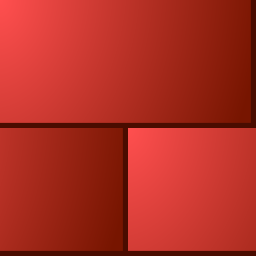
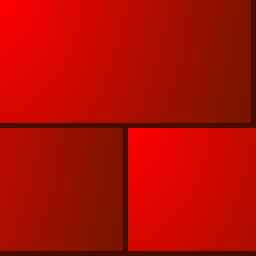
Added scale option
Version raised to 0.3.
Added new graphics.

diff --git a/src/state/OptionsState.java b/src/state/OptionsState.java
@@ -1,5 +1,6 @@
 package state;
 
+import java.awt.Dimension;
 import java.awt.DisplayMode;
 import java.awt.GraphicsDevice;
 import java.awt.GraphicsEnvironment;
@@ -15,12 +16,14 @@ import org.newdawn.slick.Color;
 import org.newdawn.slick.Font;
 import org.newdawn.slick.GameContainer;
 import org.newdawn.slick.Graphics;
+import org.newdawn.slick.Image;
 import org.newdawn.slick.Input;
 import org.newdawn.slick.SlickException;
 import org.newdawn.slick.font.effects.ColorEffect;
 import org.newdawn.slick.state.BasicGameState;
 import org.newdawn.slick.state.StateBasedGame;
 
+import other.LevelController;
 import other.Translator;
 import app.Configuration;
 import app.Game;
@@ -30,16 +33,18 @@ import factory.FontFactory;
 public class OptionsState extends BasicGameState {
 
     private boolean isMouseOverReturn, isMouseOverSave, isMouseOverResolution,
-            isMouseOverFullscreen, isMouseOverLanguage, isMouseOverAutoscale, isFullscreen,
-            isAutoscale;
-    private int stateId, width, height, languageIndex, modeIndex;
-    private Font ubuntuMedium, ubuntuLarge;
+            isMouseOverFullscreen, isMouseOverLanguage, isMouseOverAutoscale, isMouseOverScale,
+            isFullscreen, isAutoscale, isHolding;
+    private int stateId, width, height, languageIndex, modeIndex, scale, holdCounter;
+    private Font ubuntuSmall, ubuntuMedium, ubuntuLarge;
     private Rectangle saveRectangle, returnRectangle, resolutionRectangle, fullscreenRectangle,
-            languageRectangle, autoscaleRectangle;
+            languageRectangle, autoscaleRectangle, scaleRectangle;
     private DisplayMode displayModes[];
+    private Dimension size;
+    private Image wall, wallPreview;
     private Input input;
     private Point mouse;
-    private String resolutionText, languages[], yes, no, save;
+    private String resolutionText, languages[], yes, no, save, scaleText, sizeText;
     private Translator translator;
     private Configuration configuration;
 
@@ -55,12 +60,16 @@ public class OptionsState extends BasicGameState {
         configuration = Configuration.getInstance();
         width = container.getWidth();
         height = container.getHeight();
+        scale = (int) (Float.parseFloat(configuration.get("scale")) * 100);
 
         ColorEffect whiteEffect = effects.getColorEffect(java.awt.Color.WHITE);
+        ubuntuSmall = fonts.getFont("ubuntu", width / 40, whiteEffect);
         ubuntuMedium = fonts.getFont("ubuntu", width / 20, whiteEffect);
         ubuntuLarge = fonts.getFont("ubuntu", width / 16, whiteEffect);
 
         translate();
+        wall = new Image(Game.CONTENT_PATH + "graphics/newWall.png");
+        wallPreview = wall.getScaledCopy(scale / 512f);
 
         ArrayList<DisplayMode> modes = new ArrayList<DisplayMode>();
         GraphicsEnvironment environment = GraphicsEnvironment.getLocalGraphicsEnvironment();
@@ -122,6 +131,9 @@ public class OptionsState extends BasicGameState {
         autoscaleRectangle = new Rectangle();
         setAutoscaleRectangle();
 
+        scaleRectangle = new Rectangle();
+        setScaleRectangle();
+
         saveRectangle = new Rectangle();
         saveRectangle.width = ubuntuMedium.getWidth(save);
         saveRectangle.height = ubuntuMedium.getHeight(save);
@@ -153,6 +165,8 @@ public class OptionsState extends BasicGameState {
                 height * 4 / 10);
         drawString(g, ubuntuMedium, translator.translate("Autoscale") + ":", width / 6 * 2,
                 height * 5 / 10);
+        drawString(g, ubuntuMedium, translator.translate("Scale") + ":", width / 6 * 2,
+                height * 6 / 10);
 
         g.setColor((isMouseOverResolution) ? Color.blue : Color.red);
         drawString(g, ubuntuMedium, resolutionText, width / 6 * 4, height * 2 / 10);
@@ -162,6 +176,8 @@ public class OptionsState extends BasicGameState {
         drawString(g, ubuntuMedium, languages[languageIndex], width / 6 * 4, height * 4 / 10);
         g.setColor((isMouseOverAutoscale) ? Color.blue : Color.red);
         drawString(g, ubuntuMedium, isAutoscale ? yes : no, width / 6 * 4, height * 5 / 10);
+        g.setColor((isAutoscale) ? Color.darkGray : (isMouseOverScale) ? Color.blue : Color.red);
+        drawString(g, ubuntuMedium, scaleText, width / 6 * 4, height * 6 / 10);
 
         g.setColor((isMouseOverSave) ? Color.red : Color.white);
         drawString(g, ubuntuMedium, translator.translate("save"), width / 3,
@@ -169,6 +185,11 @@ public class OptionsState extends BasicGameState {
         g.setColor((isMouseOverReturn) ? Color.red : Color.white);
         drawString(g, ubuntuMedium, translator.translate("return"), (int) (width / 1.5),
                 (height - returnRectangle.height * 3 / 4));
+        g.setFont(ubuntuSmall);
+        g.setColor((size.width > 7 && size.height > 7 && size.width <= 100 && size.height <= 100) ? Color.white
+                : Color.blue);
+        drawString(g, ubuntuSmall, sizeText, width / 6 * 4, height * 8 / 12);
+        g.drawImage(wallPreview, width * 5 / 6, height * 7 / 10);
     }
 
     @Override
@@ -181,8 +202,10 @@ public class OptionsState extends BasicGameState {
         isMouseOverFullscreen = fullscreenRectangle.contains(mouse);
         isMouseOverLanguage = languageRectangle.contains(mouse);
         isMouseOverAutoscale = autoscaleRectangle.contains(mouse);
+        isMouseOverScale = scaleRectangle.contains(mouse) && !isAutoscale;
         isMouseOverSave = saveRectangle.contains(mouse);
         isMouseOverReturn = returnRectangle.contains(mouse);
+        isHolding = false;
 
         if (input.isKeyPressed(Input.KEY_ENTER)) {
             saveOptions(container, game);
@@ -191,7 +214,7 @@ public class OptionsState extends BasicGameState {
         if (input.isKeyPressed(Input.KEY_ESCAPE)) {
             game.enterState(Game.MENU_STATE);
         }
-        if (input.isMousePressed(0)) {
+        if (input.isMousePressed(Input.MOUSE_LEFT_BUTTON)) {
             if (isMouseOverResolution) {
                 modeIndex++;
                 if (modeIndex == displayModes.length) {
@@ -222,7 +245,7 @@ public class OptionsState extends BasicGameState {
                 game.enterState(Game.MENU_STATE);
             }
         }
-        if (input.isMousePressed(1)) {
+        if (input.isMousePressed(Input.MOUSE_RIGHT_BUTTON)) {
             if (isMouseOverResolution) {
                 modeIndex--;
                 if (modeIndex == -1) {
@@ -238,6 +261,49 @@ public class OptionsState extends BasicGameState {
                 setLanguageRectangle();
             }
         }
+        if (input.isMouseButtonDown(Input.MOUSE_LEFT_BUTTON)) {
+            if (isMouseOverScale && scale < 512 && size.width > 7 && size.height > 7) {
+                isHolding = true;
+                if (holdCounter == 0) {
+                    scale++;
+                } else if (holdCounter <= 60) {
+                    if (holdCounter % 6 == 0) {
+                        scale++;
+                    }
+                } else if (holdCounter <= 120) {
+                    if (holdCounter % 2 == 0) {
+                        scale++;
+                    }
+                } else {
+                    scale++;
+                }
+                holdCounter++;
+                setScaleRectangle();
+            }
+        }
+        if (input.isMouseButtonDown(Input.MOUSE_RIGHT_BUTTON)) {
+            if (isMouseOverScale && scale > 25 && size.width <= 100 && size.height <= 100) {
+                isHolding = true;
+                if (holdCounter == 0) {
+                    scale--;
+                } else if (holdCounter <= 60) {
+                    if (holdCounter % 6 == 0) {
+                        scale--;
+                    }
+                } else if (holdCounter <= 120) {
+                    if (holdCounter % 2 == 0) {
+                        scale--;
+                    }
+                } else {
+                    scale--;
+                }
+                holdCounter++;
+                setScaleRectangle();
+            }
+        }
+        if (!isHolding) {
+            holdCounter = 0;
+        }
     }
 
     @Override
@@ -252,6 +318,7 @@ public class OptionsState extends BasicGameState {
             configuration.set("language", languages[languageIndex]);
             configuration.set("fullscreen", String.valueOf(isFullscreen));
             configuration.set("autoscale", String.valueOf(isAutoscale));
+            configuration.set("scale", String.valueOf(scale / 100f));
             configuration.saveChanges();
 
             ((AppGameContainer) container).setDisplayMode(displayModes[modeIndex].getWidth(),
@@ -295,6 +362,14 @@ public class OptionsState extends BasicGameState {
     private void setAutoscaleRectangle() {
         String text = isAutoscale ? yes : no;
         setRectangle(autoscaleRectangle, text, width * 4 / 6, height * 5 / 10);
+    }
+
+    private void setScaleRectangle() {
+        size = LevelController.getInstance().getOptimalLevelDimension(width, height, scale / 100f);
+        sizeText = String.format("[%1$02d , %2$02d]", size.width, size.height);
+        scaleText = String.format("%1$d.%2$02dx", scale / 100, scale % 100);
+        wallPreview = wall.getScaledCopy(scale / 512f);
+        setRectangle(scaleRectangle, scaleText, width * 4 / 6, height * 6 / 10);
     }
 
     private void setRectangle(Rectangle rectangle, String text, int x, int y) {

diff --git a/src/app/Game.java b/src/app/Game.java
@@ -23,7 +23,7 @@ public class Game extends StateBasedGame {
     public static final int MENU_FOR_EDITOR_STATE = 4;
     public static final int MENU_FOR_GAME_STATE = 5;
 
-    public static final String VERSION = "0.2";
+    public static final String VERSION = "0.3";
 
     public static boolean isReinitializationRequried = false;
 
